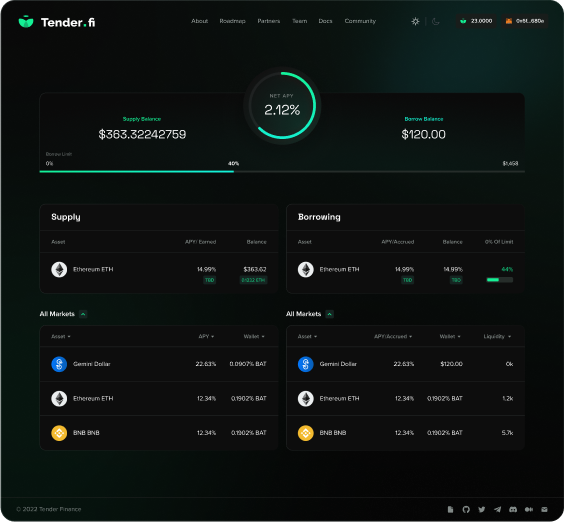
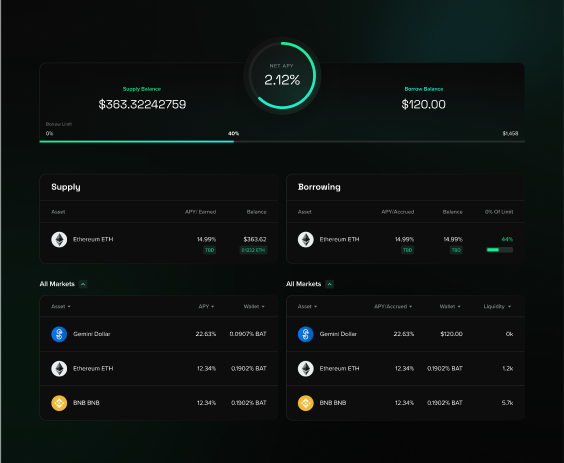
updated color of site and some content

diff --git a/src/components/about.jsx b/src/components/about.jsx
@@ -9,31 +9,37 @@ export const About = () => {
                <div className="col-lg-6 col-sm-12 col-md-12">
                   <div className="about-text">
                      <div className="head">
-                        <h1>Lending and Borrowing Protocol</h1>
+                        <h1>Unlocking DeFi's Potential Together!</h1>
                      </div>
                      <div className="a-body">
                         <ul>
-                           <li>
-                              {" "}
-                              <i>
-                                 <FaCircle />
-                              </i>{" "}
-                              Collateralize GMX and GLP
-                           </li>
-                           <li>
-                              {" "}
-                              <i>
-                                 <FaCircle />
-                              </i>{" "}
-                              Collateralize GMX and GLP
-                           </li>
-                           <li>
-                              {" "}
-                              <i>
-                                 <FaCircle />
-                              </i>{" "}
-                              Collateralize GMX and GLP
-                           </li>
+                           <div className="col">
+                              <li>
+                                 {" "}
+                                 <i>
+                                    <FaCircle />
+                                 </i>{" "}
+                                 Trade
+                              </li>
+                           </div>
+                           <div className="col">
+                              <li>
+                                 {" "}
+                                 <i>
+                                    <FaCircle />
+                                 </i>{" "}
+                                 Earn
+                              </li>
+                           </div>
+                           <div className="col">
+                              <li>
+                                 {" "}
+                                 <i>
+                                    <FaCircle />
+                                 </i>{" "}
+                                 Explore
+                              </li>
+                           </div>
                         </ul>
                         <div className="container">
                            <div className="row btn-con">

diff --git a/src/components/intro.jsx b/src/components/intro.jsx
@@ -22,11 +22,11 @@ export const Intro = () => {
                         <div className="intro-data">
                            <div className="intro-data-head">
                               <h1>
-                                 A revolution in <br /> Liquidity
+                                 A Revolution in <br /> DEFI.
                               </h1>{" "}
                               <br />
                               <small>
-                                 Building the best borrowing experience in DeFi
+                                 Building the best trading experience in DeFi.
                               </small>
                               <div className="btn-con">
                                  <div className="row justify-content-center">
@@ -44,14 +44,19 @@ export const Intro = () => {
                      <SwiperSlide>
                         <div className="intro-data">
                            <div className="intro-data-head">
-                              <h1>Audited and Fully Open-Source</h1> <br />
+                              <h1>
+                                 {" "}
+                                 The Future of Decentralized <br /> Trading.
+                              </h1>{" "}
+                              <br />
                               <small>
-                                 Building the best borrowing experience in DeFi
+                                 Trade, earn, launch projects, and explore NFTs
+                                 with the seamless DEX built on zkSync network.
                               </small>
                               <div className="btn-con">
                                  <div className="row justify-content-center">
                                     <div className="btn btn-success m-4 col-4">
-                                      LAUNCHPAD
+                                       LAUNCHPAD
                                     </div>
                                     <div className="btn btn-outline-success m-4 col-4">
                                        DEX

diff --git a/src/css/global.css b/src/css/global.css
@@ -8,8 +8,9 @@ a {
    color: white;
    font-weight: bold;
 }
-a:hover {
-   color: lightgreen;
+a:hover {    
+   --tw-bg-opacity: 1;
+   color: rgb(8 101 111);
 }
 header .logo {
    display: flex;
@@ -115,18 +116,23 @@ header .menu-btn .menu-btn-burger.open::after {
    color: #fff;
    padding: 5px 1px;
 }
+.about .a-body ul{
+   display: flex;
+   padding: 10px 0px;
+}
 .about .abt-btn {
    margin: 10px 1px;
 }
 .about li i {
-   color: lightgreen;
+   --tw-bg-opacity: 1;
+   color: rgb(8 101 111);
 }
 .about .about-img {
    text-align: right;
 }
 
 .w2 {
-   background: linear-gradient(80deg, #14f195, black 60%);
+   background: linear-gradient(80deg, rgb(8 101 111), black 60%);
 }
 .partner {
    padding: 10px 20px;
@@ -157,7 +163,7 @@ header .menu-btn .menu-btn-burger.open::after {
 }
 .partner .p-card-head div {
    border: 2px solid #000;
-   background: #92ff9289;
+   background: rgb(8 101 111);
    font-size: 26px;
    border-radius: 50%;
    padding: 15px 20px;
@@ -176,7 +182,7 @@ header .menu-btn .menu-btn-burger.open::after {
    background: none;
    border-radius: 10px;
    border: none;
-   border-bottom: 3px solid #30f630a0;
+   border-bottom: 3px solid rgb(8 101 111);
    color: #fff;
 }
 .roadmap ul {
@@ -309,5 +315,5 @@ footer .col:last-child {
 }
 
 .swiper-pagination span {
-   background: lightgreen;
+   background: rgb(8 101 111);
 }

diff --git a/src/App.css b/src/App.css
@@ -6,7 +6,19 @@
 .wrapper{
     background: #000000bc;
 }
+.btn{
+    color: #fff;
+    border: 1px solid rgb(8 101 111);
+
+}
 .btn-success{
-    background: #14f195;
-    color: #000;
+    background: rgb(8 101 111);
+    border: 1px solid rgb(8 101 111);
+}
+.btn-outline-success{
+    border: 1px solid rgb(8 101 111);
+}
+.btn-outline-success:hover, .btn-success:hover{
+    background: rgb(8 101 111);
+    border: 1px solid rgb(8 101 111);
 }
